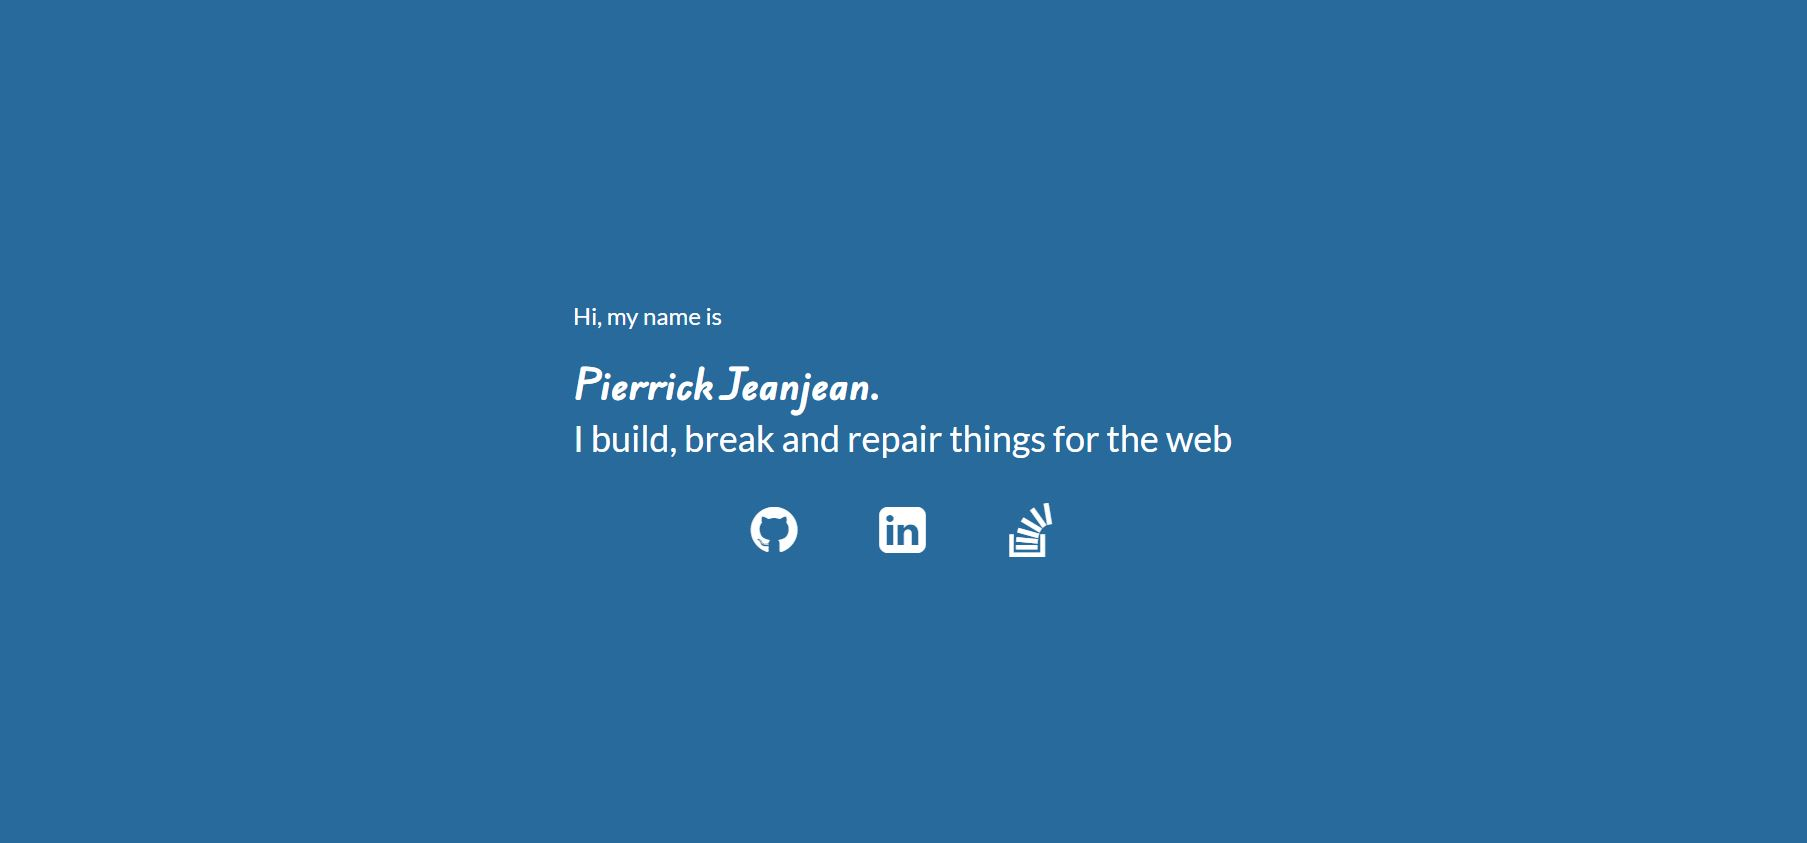
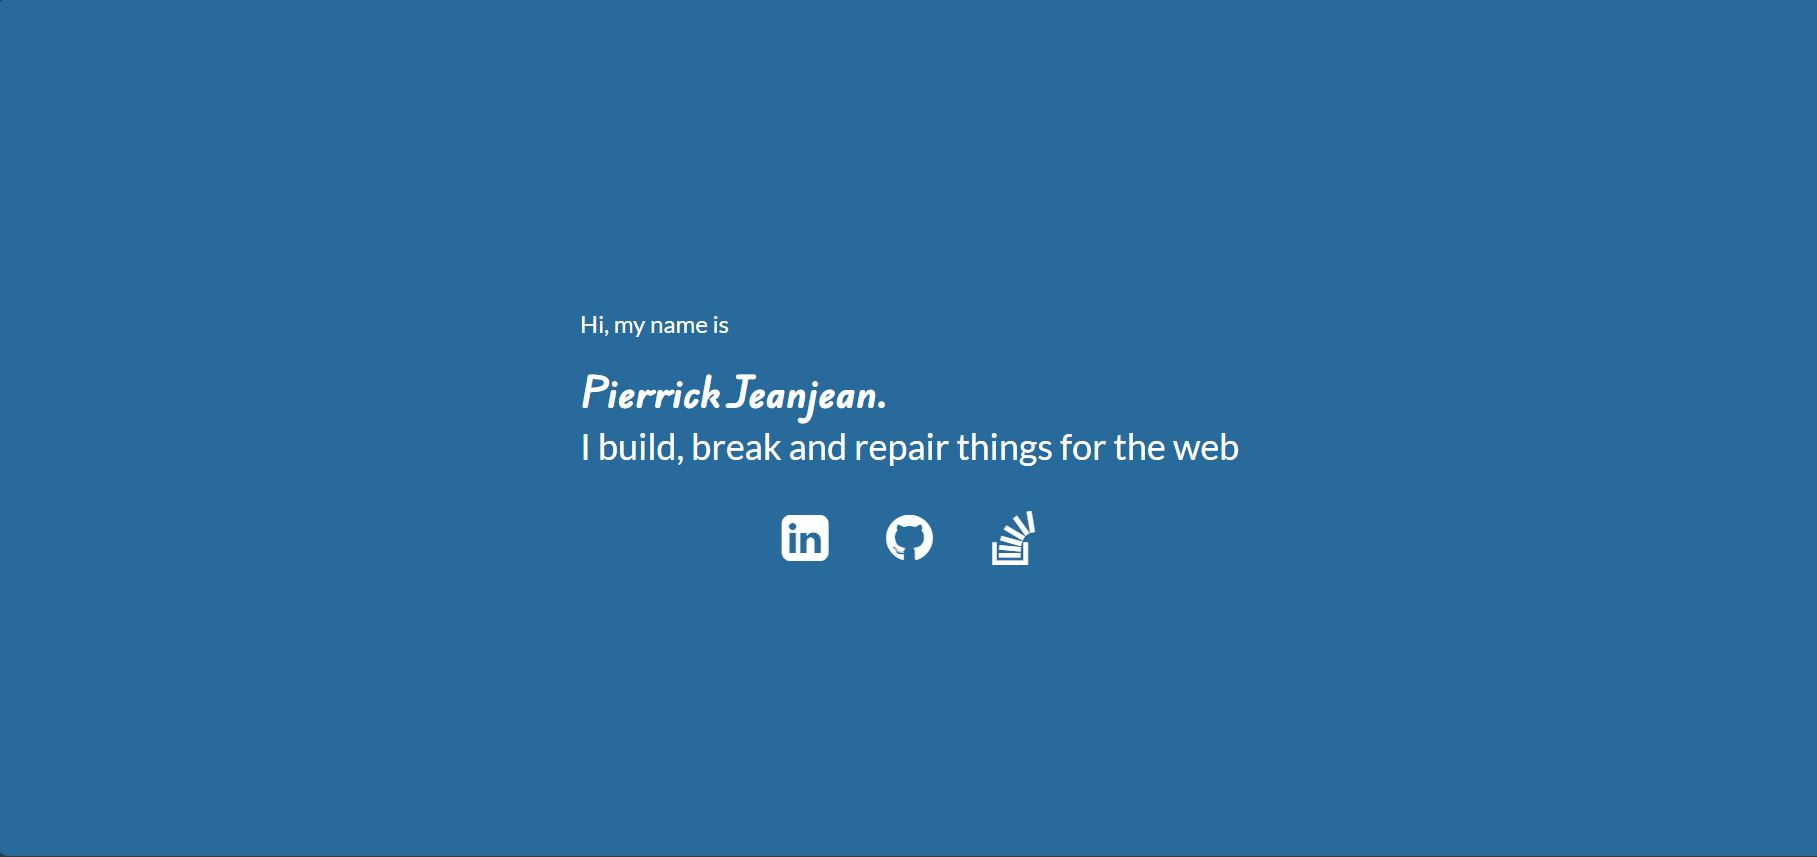
fix: change homepage design

diff --git a/styles/home.css b/styles/home.css
@@ -26,7 +26,7 @@
 .home>div>div>a>i {
     font-size: 36px;
     color: #fff;
-    padding: 16px;
+    padding: 8px;
 }
 
 .home>div>div>a>i:hover {
